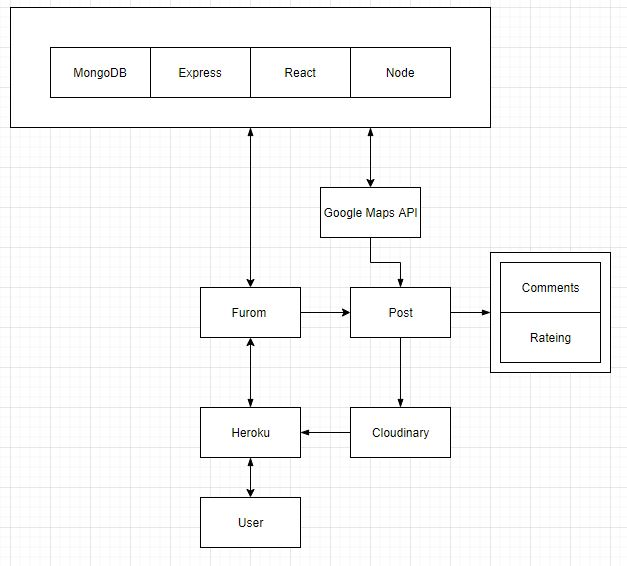
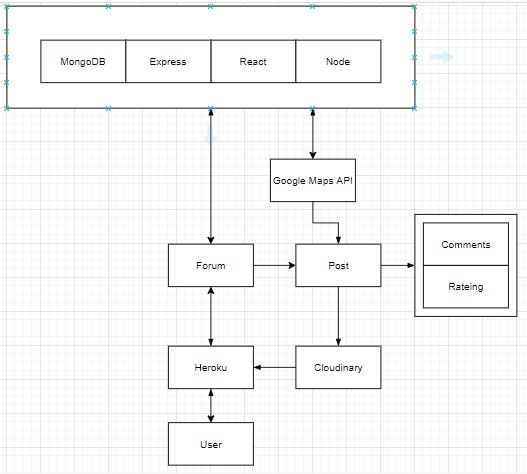
updated md with index

Changed region(s): [[0.0, 0.0, 1.0, 1.0], [0.0607, 0.0591, 0.7287, 0.1772], [0.8197, 0.1181, 0.8501, 0.1477]]

diff --git a/README.md b/README.md
@@ -1,11 +1,22 @@
+# Index
+1. [Purpose](#purpose)
+2. [Functionality](#functionality)
+3. [Target audience](#target-audience)
+4. [Tech stack](#tech-stack)
+5. [Dataflow Diagram](#dataflow-diagram)
+6. [Application Architecture Diagram](#application-architecture-diagram)
+7. [User Stories](#user-stories)
+8. [Wireframes](#wireframes)
+9. [Trello Progress](#trello-progress)
+
 # Xplory
 The final assessment for Brisbane Coder Academy, working in a team of 3 
 
-## - Purpose
+# Purpose
 - The purpose of our application is to showcase all the parks and parklands around an area of choice, in Australia.
 We will be adding functions like whether or not it has restrooms, dog fence, shelter, lighting, and much more. It would include information about Accessibility, restroom, entry for dogs, location of the nearest cafes, exercise equipment and other facilities, Parking etc. The visitor will have all information regarding the park to make a decision before their visit. We aim to provide as much as information which would eventually help people to visit the Park stress-free. 
 
-## - Functionality / features
+# Functionality
 - The functionality of the application is to let users add pictures of the various parklands of the city. They will be able to rate other posts and locations  based on features, facilities, and conveniences in and around the park
 - Google API will be the main key point for providing information on the location of the park which would enable users to locate parkland via postcode.
 - Further, the user will be able to filter --
@@ -56,7 +67,7 @@ We will be adding functions like whether or not it has restrooms, dog fence, she
   - Add/remove/Authenticate data uploaded by the user
 
 
-## - Target audience
+# Target audience
 
 - Parents
 - Young adults 
@@ -68,21 +79,21 @@ We will be adding functions like whether or not it has restrooms, dog fence, she
 - Tourists 
 
 
-## - Tech stack	GENERAL
+# Tech stack
 
 - MongoDB, Express, React, Node
 - Google API
 - Heroku 
 - Cloudinary 
 
-# R2	Dataflow Diagram
+# Dataflow Diagram
 ![DFD](https://user-images.githubusercontent.com/72952429/126571742-85109679-c060-4200-a355-b83b09896c2b.JPG)
 
-# R3	Application Architecture Diagram
-![application-architecture-diagram](https://user-images.githubusercontent.com/72952429/126432312-34f8c145-a58f-4af0-b230-4d5020ff10e0.JPG)
+# Application Architecture Diagram
+![application-architecture-diagram](https://user-images.githubusercontent.com/72952429/126722994-55c62725-4c8e-4efe-a140-b45cdd981939.JPG)
 
 
-# R4	User Stories
+# User Stories
 
 ![userstory-asmaa](https://user-images.githubusercontent.com/72952429/126575566-6c4d946b-c9a8-406e-9c96-6f76fdcc6c6f.png)
 
@@ -105,7 +116,7 @@ As a parent of 3 kids,
 We are new to the area, and I need to know where a good parkland is nearby for my children, they are young and require them to have a fence around. They are kids that love water, so a water-park would be preferred. I have one kid with a disability and he has a wheel chair, so I require disabled parking and access with a wheel chair to the park area. As they are running around we would require water fountains and bathroom facilities with a shower.
 
 
-# R5	Wireframes for multiple standard screen sizes, created using industry standard software
+# Wireframes
 *Provide UX/UI design documentation(wireframes) that adequately show Agile methodology implementation.*
 
 - For our wireframes, we used an application called Miro.
@@ -117,13 +128,13 @@ We are new to the area, and I need to know where a good parkland is nearby for m
 
 
 
-## Mobile Wireframes
+## Mobile
 
 ![mobile_wf1](https://user-images.githubusercontent.com/72953372/126584893-52787a21-309c-44d4-a90c-605439b506bb.png)
 ![mobile_wf2](https://user-images.githubusercontent.com/72953372/126584914-a135a29e-4a66-47bc-88b8-fe84197e57fa.png)
 
 
-## Tablet Wireframes
+## Tablet
 
 ![desktop_wf1](https://user-images.githubusercontent.com/72953372/126584937-b418f8f5-ccb0-440b-85a0-f27feee24d8a.png)
 ![desktop_wf2](https://user-images.githubusercontent.com/72953372/126584949-d192e36d-872c-4c2e-8cd3-f116c87fbe72.png)
@@ -131,14 +142,14 @@ We are new to the area, and I need to know where a good parkland is nearby for m
 
 
 
-## Desktop Wireframes
+## Desktop
 
 ![desktop_wf1](https://user-images.githubusercontent.com/72953372/126584758-4c9b9db5-d356-4cfd-9a15-a7922bd7c375.png)
 ![desktop_wf2](https://user-images.githubusercontent.com/72953372/126584815-6103b42f-df0a-4008-80e4-f3c1263734e8.png)
 ![desktop_wf3](https://user-images.githubusercontent.com/72953372/126584830-9db7c974-f0a3-47b3-abc7-a037ab37b077.png)
 
 
-# R6	Screenshots of your Trello board throughout the duration of the project
+# Trello Progress
 ![trello-image-1](https://user-images.githubusercontent.com/72952429/126571883-d3a7ce6f-db4c-4e1e-88d2-3461b12fe622.png)
 
 ![trello-image-2](https://user-images.githubusercontent.com/72952429/126571884-f1c15b64-a09c-4ff0-8c43-78caa0137304.png)
